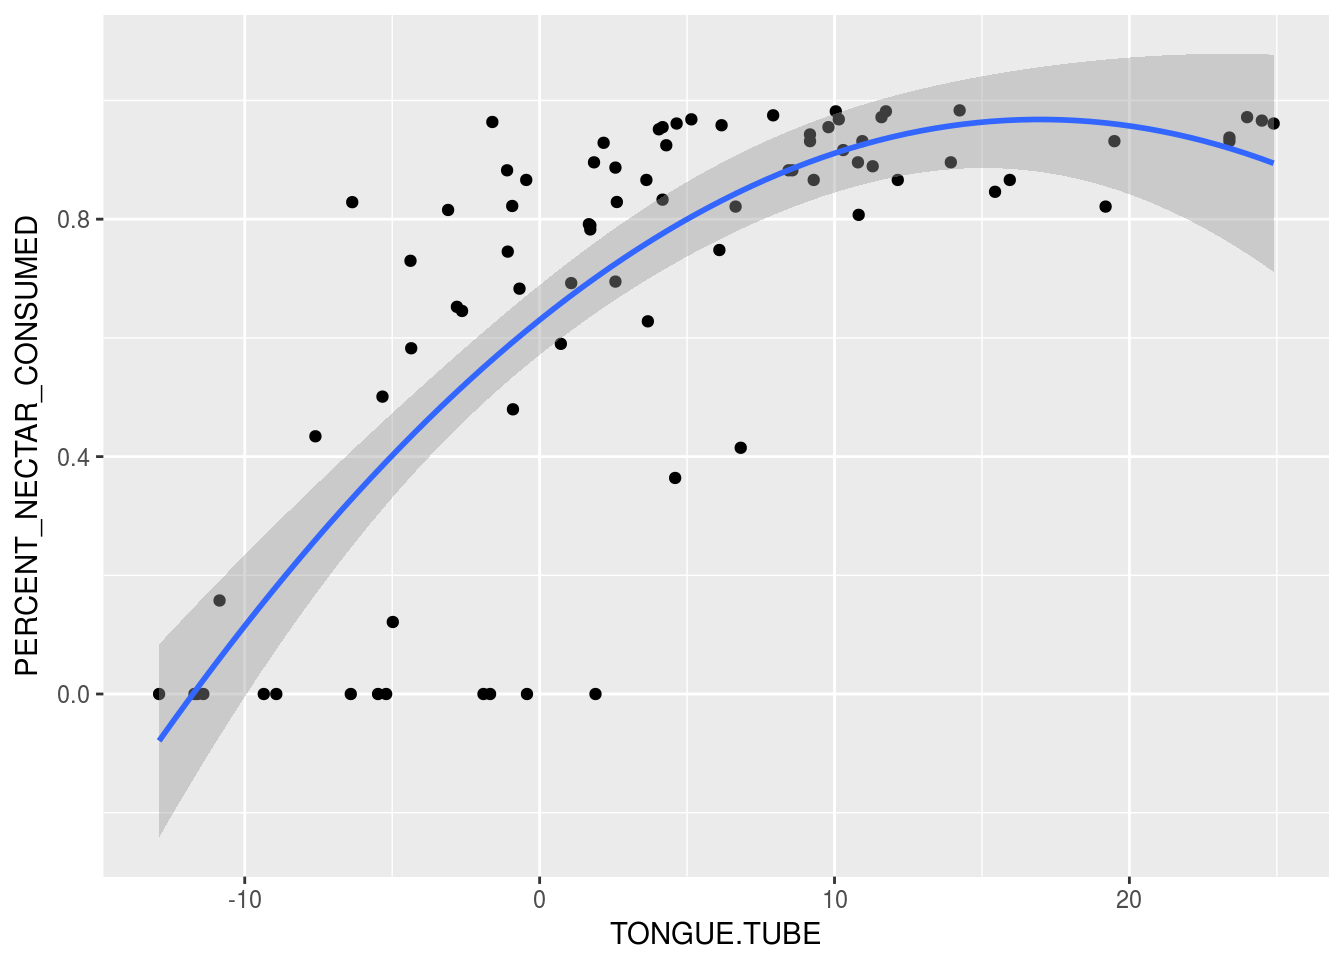
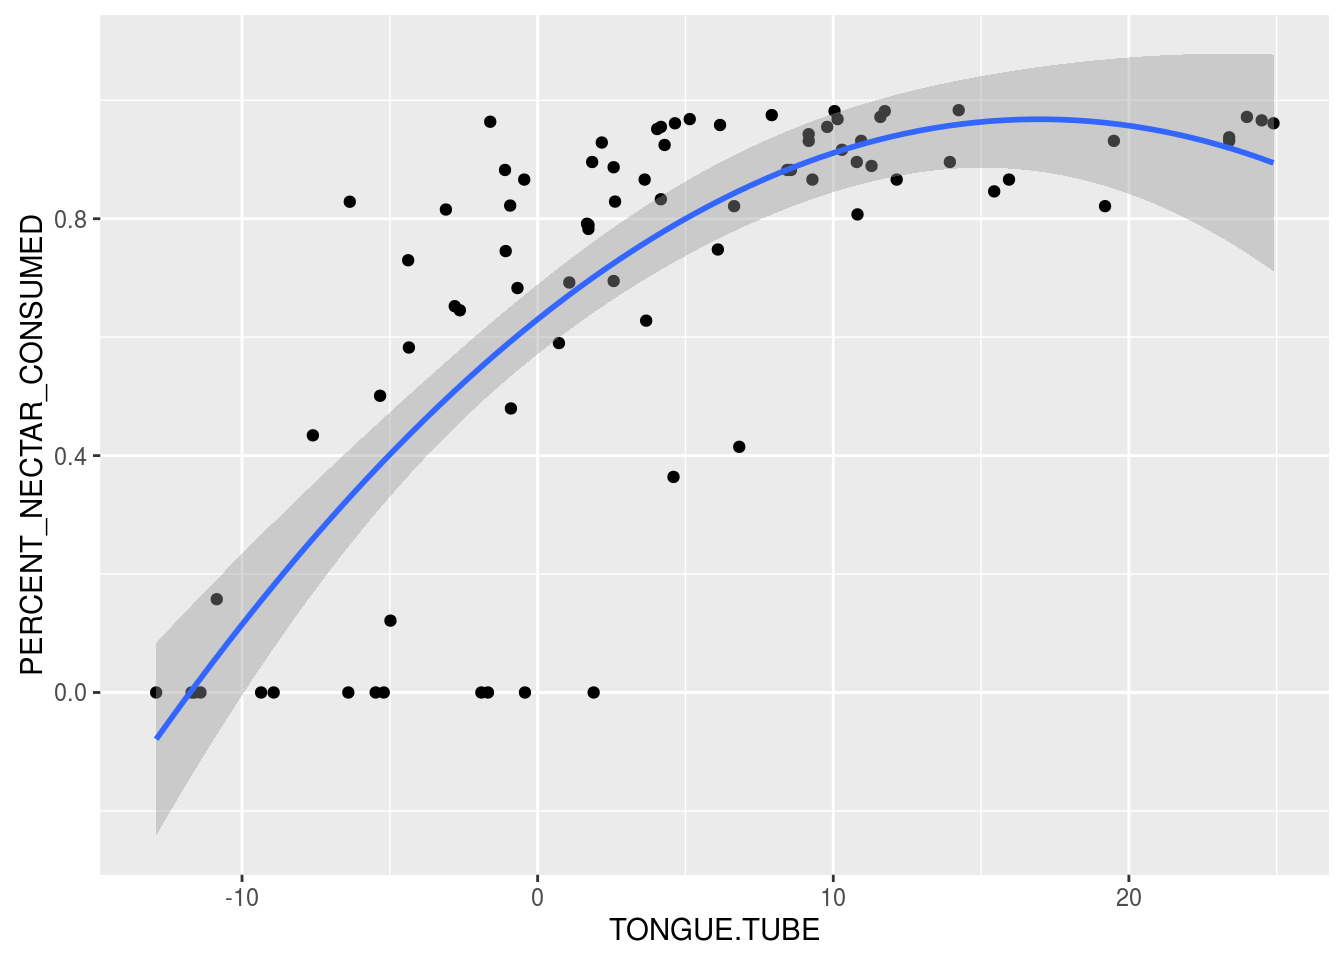
mcw

diff --git a/inferring_coevolution.html b/inferring_coevolution.html
@@ -391,7 +391,7 @@ fitted_gaussian &lt;- function(x){
 ggplot(offset.data,aes(x=TONGUE.TUBE,y=POLLEN_GRAINS_DEPOSITED))+
   geom_point()+stat_smooth(method = lm, formula=y~fitted_gaussian(x))</code></pre>
 <p><img src="inferring_coevolution_files/figure-html/unnamed-chunk-6-1.png" width="672" /></p>
-<p>This provides an optimal offset for the flower of 4.6902079.</p>
+<p>This provides an optimal offset for the flower of 4.6907867.</p>
 </div>
 <div id="rightarrow-theta_i" class="section level3">
 <h3><span class="math inline">\(\rightarrow \theta_i\)</span></h3>
